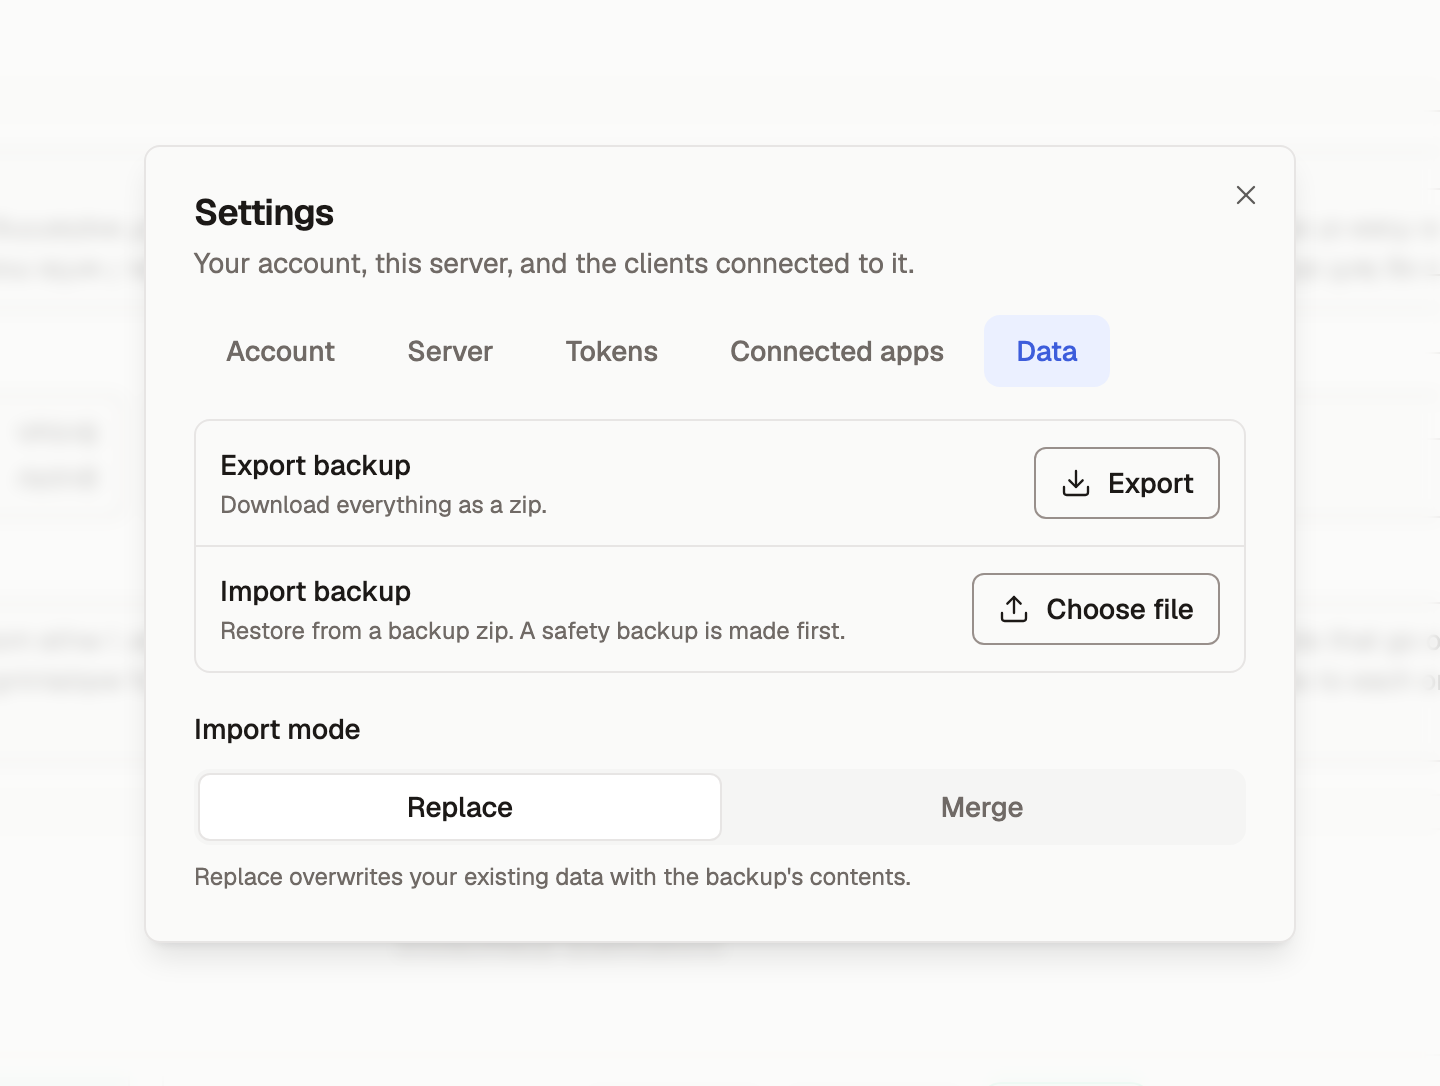
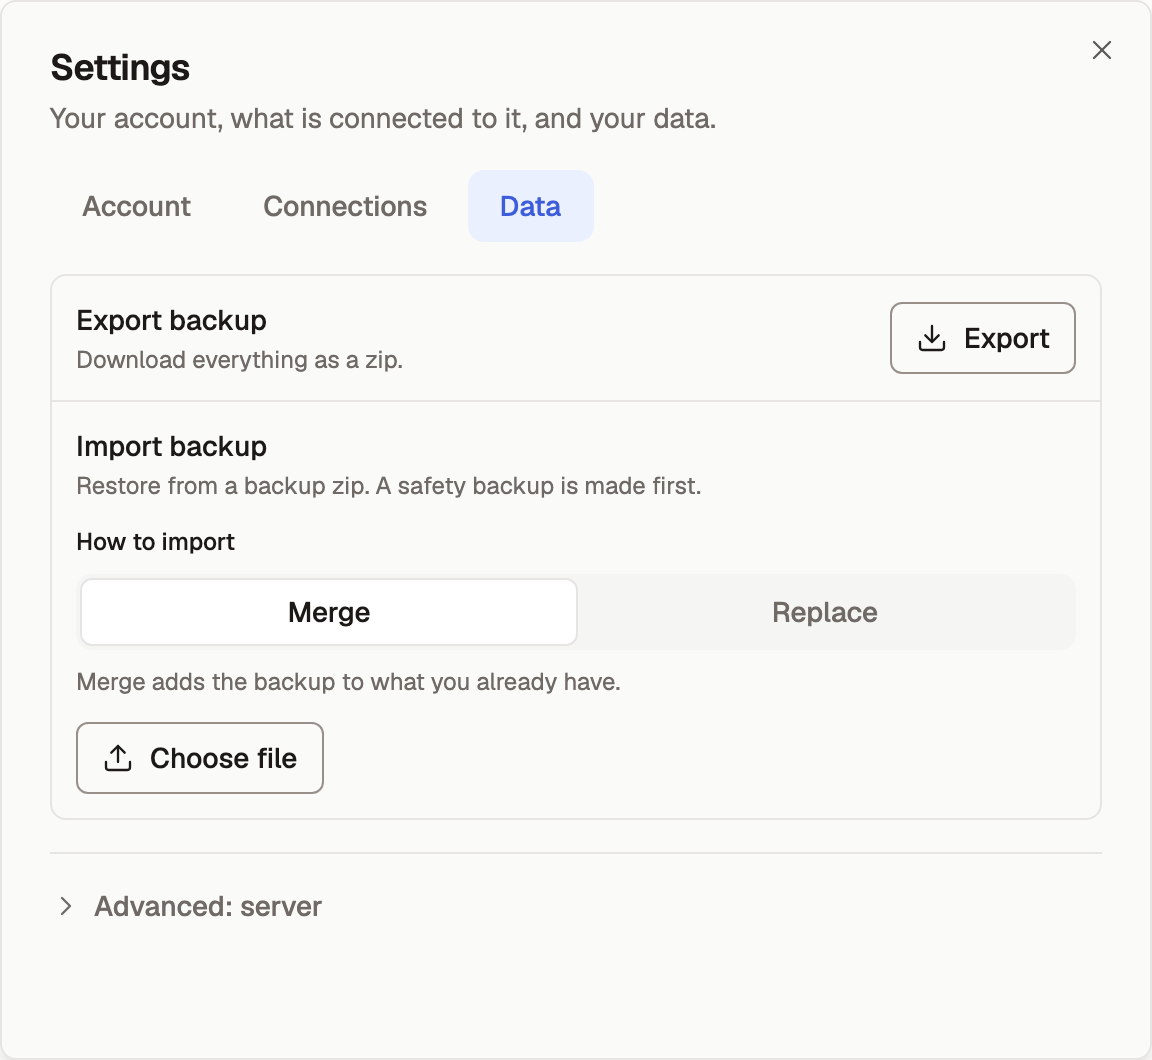
docs: the menu, History and Settings as they are after wave 2
Text and the three screenshots that showed the old Sections page and the
six-tab Settings, retaken from the demo account.

diff --git a/docs-site/public/screenshots/README.md b/docs-site/public/screenshots/README.md
@@ -22,10 +22,10 @@ desktop views.
 | `editor-entry-expanded.png` | A project row open: detail fields, tags, nested lists |
 | `editor-phone.png` | The editor at 390×844, section dropdown collapsed |
 | `learning-log-entry.png` | A learning log entry open |
-| `sections-manager.png` | The Sections manager, one opt-in section off |
-| `settings-tokens.png` | Settings → Tokens: the list and the create form |
-| `settings-tokens-new.png` | The one look at a new token's secret |
-| `settings-data.png` | Settings → Data: export, import, import mode |
+| `more-sections.png` | More sections open in the menu, two opt-in sections off; History and Hide in the section header |
+| `settings-tokens.png` | Settings → Connections: connected apps, the token list and the create form |
+| `settings-tokens-new.png` | The one look at a new token's secret (revoked straight after) |
+| `settings-data.png` | Settings → Data: export, import mode, import, Advanced |
 
 ## The conversation figures
 
